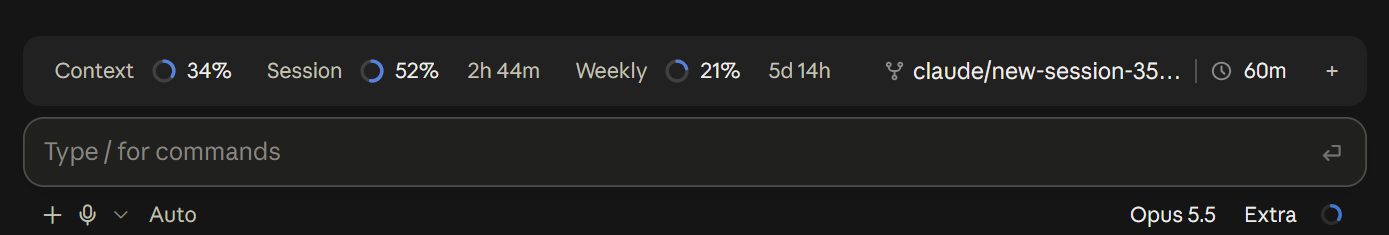
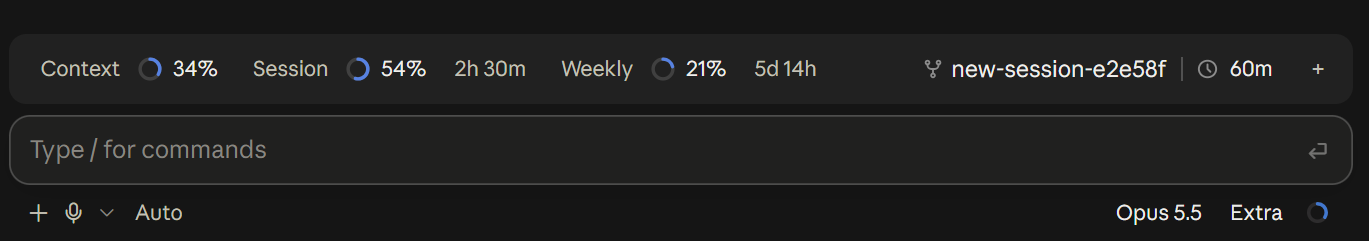
Show the branch from its last slash, whole on hover; refresh screenshots

diff --git a/tests/band.test.ts b/tests/band.test.ts
@@ -92,8 +92,11 @@ test('git head names the branch, a detached sha, and a linked worktree', async (
   const linked = ['C:/r/.git/worktrees/fix', 'C:/r/.git', 'C:/r/.claude/worktrees/fix', 'fix-band', ''].join('\r\n')
   expect(parseHead(linked)).toEqual({ branch: 'fix-band', worktree: 'fix' })
   expect(parseHead('')).toBe(null)
+  // The name after its last slash.
   expect(branchName({ branch: 'main' })).toBe('main')
-  expect(branchName({ branch: 'feature/a-very-long-branch-name' }, 24)).toBe('feature/a-very-long-bra…')
+  expect(branchName({ branch: 'feature/NEXT-1777' })).toBe('NEXT-1777')
+  expect(branchName({ branch: 'claude/new-session-35d9df', worktree: 'new-session-35d9df' })).toBe('new-session-35d9df')
+  expect(branchName({ branch: 'feature/a-very-long-branch-name' }, 16)).toBe('a-very-long-bra…')
 })
 
 test('band shows the /context fill and opens the drawer in place of the band', async ($, on) => {
@@ -169,7 +172,7 @@ test('band shows the /context fill and opens the drawer in place of the band', a
   }
 })
 
-test('a long branch narrows the bars or turns them to rings, then is shortened, then goes', async ($, on) => {
+test('a long branch shows its last part, narrows the bars or turns them to rings, then is shortened, then goes', async ($, on) => {
   mock.clock(on)
   on('session.measure', (_, e) => ({ changed: e.changed }))
   on('session.usage', () => ({ value: { startedAt: 0, ...RAW, context: { ...RAW.context, breakdown: BREAKDOWN } } }))
@@ -190,10 +193,12 @@ test('a long branch narrows the bars or turns them to rings, then is shortened, 
   const mount = (surface: 'terminal' | 'desktop', bodyColumns: number) =>
     $.ui.mount({ plugin: 'usage-band', surface, ...BAND, props: { ...BAND.props, bodyColumns } })
 
-  // Stub bars, and the name cut to the cells the row has left.
-  let ui = await mount('terminal', 110)
+  // Stub bars, and the name cut to the cells the row has left. The whole
+  // name waits, hidden, for the pointer.
+  let ui = await mount('terminal', 102)
   expect((await ui.find({ key: 'ctx-bar' }))?.text?.length).toBe(3)
-  expect(await ui.find({ type: 'Text', text: 'feature/usage-band-shrink-ba…' })).toBeDefined()
+  expect(await ui.find({ type: 'Text', text: 'usage-band-shrink-ba…' })).toBeDefined()
+  expect(await ui.find({ type: 'Text', text: 'feature/usage-band-shrink-bars' })).toBeDefined()
   await ui.unmount()
 
   // Too narrow to keep eight characters: the branch goes and the bars widen again.
@@ -205,13 +210,19 @@ test('a long branch narrows the bars or turns them to rings, then is shortened, 
   // The desktop's bars would be too narrow to read, so rings take their place
   // and the name stays whole. The kit keeps no Svg keys, but the meters' are
   // the first three Svgs.
-  ui = await mount('desktop', 120)
-  const rings = (await ui.findAll({ type: 'Svg' })).slice(0, 3)
+  ui = await mount('desktop', 88)
+  const svgs = await ui.findAll({ type: 'Svg' })
+  const rings = svgs.slice(0, 3)
   expect(rings.map(svg => svg.props.width)).toEqual([14, 14, 14])
   // Each one blue arc, the context's included.
   expect(rings.every(svg => String(svg.props.source).includes('<circle'))).toBe(true)
   expect(rings.every(svg => String(svg.props.source).match(/stroke="#4a80e8"/g)?.length === 1)).toBe(true)
-  expect(await ui.find({ type: 'Text', text: 'feature/usage-band-shrink-bars' })).toBeDefined()
+  expect(await ui.find({ type: 'Text', text: 'usage-band-shrink-bars' })).toBeDefined()
+  // The whole name waits, hidden, for the pointer, on a ground of its own:
+  // no frame, which would paint white.
+  const full = await ui.find({ type: 'Text', text: 'feature/usage-band-shrink-bars' })
+  expect(full?.props.color).toBe('#f2f2f2')
+  expect(svgs.some(svg => svg.props.isInteractive)).toBe(false)
   await ui.unmount()
 })
 

diff --git a/hooks/register.tsx b/hooks/register.tsx
@@ -30,6 +30,11 @@ const RED = '#e5484d'
 const TRACK = '#8888884d'
 const BUFFER = '#8888888c'
 const HOVER_BG = '#8888881f'
+// The whole branch name over the short one, on the desktop: the band's dark
+// grey as a meter under the pointer lights it, opaque so the name hides what
+// it covers.
+const TIP_BG = '#2e2e2e'
+const TIP_TEXT = '#f2f2f2'
 const THEME: Record<string, string> = {
   permission: BLUE,
   suggestion: BLUE,
@@ -578,10 +583,31 @@ export const register: Register = on => {
           {meters.map(meter)}
           {head && fit.branch !== undefined && (
             <Box key="git" flexDirection="row" justifyContent="flex-end" alignItems="center" columnGap={half} paddingLeft={isDesktop ? 0 : 1} flexGrow={1} flexShrink={0}>
-              {isDesktop && icon('git-icon', head.worktree === undefined ? ICONS.branch : ICONS.worktree, head.worktree === undefined ? 'Branch' : 'Worktree branch')}
-              {/* The terminal has no icons: a label stands in, as "Cache" does. */}
-              {!isDesktop && <Text dimColor>{GIT_WORD}</Text>}
-              <Text>{fit.branch}</Text>
+              <Box key="git-name" flexDirection="row" alignItems="center" columnGap={half}>
+                {isDesktop && icon('git-icon', head.worktree === undefined ? ICONS.branch : ICONS.worktree, head.worktree === undefined ? 'Branch' : 'Worktree branch')}
+                {/* The terminal has no icons: a label stands in, as "Cache" does. */}
+                {!isDesktop && <Text dimColor>{GIT_WORD}</Text>}
+                <Text>{fit.branch}</Text>
+                {/* A name shown short is whole under the pointer, drawn over the
+                    row and ending where the short one does. Unkeyed, so the
+                    pointer on the name reveals it. An interactive Svg's
+                    tooltip would sit in a frame that paints white each redraw.
+                    Terminal cells cover what is under them; the desktop needs
+                    a ground. */}
+                {fit.branch !== head.branch && (
+                  <Box
+                    position="absolute"
+                    top={0}
+                    right={0}
+                    display="none"
+                    hover={{ display: 'flex' }}
+                    backgroundColor={isDesktop ? TIP_BG : undefined}
+                    paddingX={isDesktop ? half : 0}
+                  >
+                    <Text color={isDesktop ? TIP_TEXT : undefined}>{head.branch}</Text>
+                  </Box>
+                )}
+              </Box>
               {!isDesktop && head.worktree !== undefined && <Text dimColor>{WORKTREE_NOTE}</Text>}
               <Box key="git-divider" marginLeft={half} flexDirection="row" alignItems="center">
                 {/* With an empty alt the desktop drew nothing here. */}

diff --git a/hooks/git.ts b/hooks/git.ts
@@ -27,5 +27,7 @@ export const parseHead = (stdout: string, sha = ''): GitHead | null => {
   return norm(gitDir) === norm(commonDir) ? { branch } : { branch, worktree: norm(top).split('/').pop() ?? top }
 }
 
-// The band shortens it further when the row is full.
-export const branchName = (head: GitHead, max = 48) => clip(head.branch, max)
+// The name after its last slash: "feature/NEXT-1777" is "NEXT-1777", and a
+// worktree's "claude/fix-band" is "fix-band". The band shortens it further
+// when the row is full, and shows the whole on hover.
+export const branchName = (head: GitHead, max = 48) => clip(head.branch.split('/').pop() || head.branch, max)

diff --git a/README.md b/README.md
@@ -33,7 +33,7 @@
 | **Session** | The 5-hour plan limit and the time until it resets |
 | **Weekly** | The 7-day plan limit and the time until it resets |
 | **Credits** | The spend limit, when your plan has one |
-| **Branch** | The session's git branch (a short commit hash when detached). The desktop shows a branch icon (a fork icon in a linked worktree); the terminal shows `git main`, and `· worktree` in a linked worktree |
+| **Branch** | The session's git branch (a short commit hash when detached), shown from its last `/`: `feature/NEXT-1777` shows as `NEXT-1777`. Hover it for the full name. The desktop shows a branch icon (a fork icon in a linked worktree); the terminal shows `git main`, and `· worktree` in a linked worktree |
 | **Cache** | Estimated prompt-cache time remaining, after a clock icon on the desktop (`Cache` in the terminal), to the left of the `＋` toggle |
 
 A meter's fill turns amber at 80% of its limit and red at 95%. For the context, the limit is the auto-compact point, or the full window when auto-compact is off.
